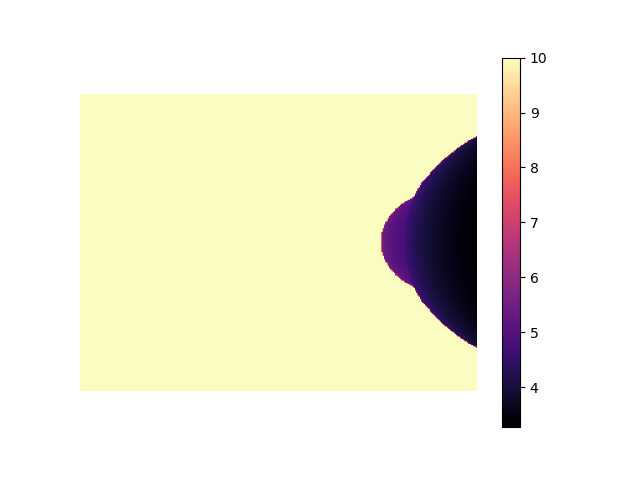
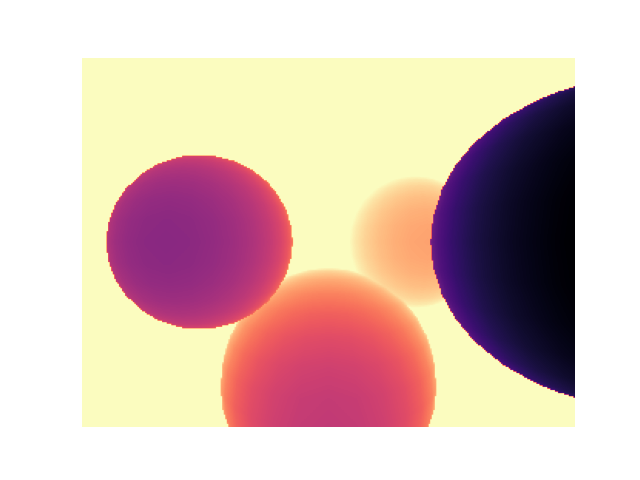
Working rot trans of cam dependent on quad pos orient

diff --git a/gym_quad/objects/depth_camera.py b/gym_quad/objects/depth_camera.py
@@ -20,6 +20,21 @@ from pytorch3d.renderer import (
     TexturesVertex,
 )
 
+
+import sys
+import os
+#Use os and sys to access the modules inside gym_quad (imports below are from gym_quad)
+# Get the directory of the current script
+script_dir = os.path.dirname(os.path.abspath(__file__))
+# Get the parent and grandparent directory of the current script
+parent_dir = os.path.dirname(script_dir)
+grand_parent_dir = os.path.dirname(parent_dir)
+# Add the parent directory to the Python path
+sys.path.append(grand_parent_dir)
+
+import gym_quad.utils.geomutils as geom
+
+
 # Helper functions to transform between ENU and pytorch3D coordinate systems
 def enu_to_pytorch3d(enu_position: torch.Tensor) -> torch.Tensor:
     '''ENU is x-east, y-north, z-up. 
@@ -121,12 +136,16 @@ class SphereScene:
 pos1 = torch.tensor([0.0, 0.0, 0.0])
 pos2 = torch.tensor([0.0, 3.0, 0.0])
 pos3 = torch.tensor([0.0, 0.0, 1.5])
+pos4 = torch.tensor([1.0, 0.0, 1.5])
+pos5 = torch.tensor([2.0, -1.0, 0])
 unit_sphere_path = "./sphere.obj"
 sphere1 = SphereMeshObstacle(device=device, path=unit_sphere_path, radius=2.0, center_position=pos1)
 sphere2 = SphereMeshObstacle(device=device, path=unit_sphere_path, radius=0.5, center_position=pos2)
 sphere3 = SphereMeshObstacle(device=device, path=unit_sphere_path, radius=1.0, center_position=pos3)
+sphere4 = SphereMeshObstacle(device=device, path=unit_sphere_path, radius=1.2, center_position=pos4)
+sphere5 = SphereMeshObstacle(device=device, path=unit_sphere_path, radius=1.4, center_position=pos5)
 
-spheres = [sphere1,sphere2,sphere3]
+spheres = [sphere1,sphere2,sphere3,sphere4,sphere5]
 spherescene = SphereScene(device=device, sphere_obstacles=spheres)
 meshes = spherescene.scene
 
@@ -144,7 +163,7 @@ R = torch.tensor([[1.0, 0.0, 0.0], [0.0, 1.0, 0.0], [0.0, 0.0, 1.0]]).unsqueeze(
 T = torch.zeros((1, 3)).to(device)
 T[0, 0] = 0.0
 T[0, 1] = 0.0
-T[0, 2] = 6.0
+T[0, 2] = 0.0
 print(f"R: {R} with shape {R.shape}")
 print(f"T: {T} with shape {T.shape}")
 
@@ -165,35 +184,62 @@ rasterizer = MeshRasterizer(
 )
 
 #Generating n_steps positions and orientations for the camera in ENU frame
-n_steps = 8
+n_steps = 24
 positions = np.zeros((n_steps, 3)) # x, y, z in meters
 orientations = np.zeros((n_steps, 3)) # roll about x, pitch about y, yaw about z (ENU) in radians
+
+referencetype = 'line' # 'circle', 'line', 
+
 for i in range (n_steps):
     param = n_steps/2
-    positions[i] = np.array([6*np.cos(i/param*np.pi), 6*np.sin(i/param*np.pi), 0]) # x, y, z in meters 
-    orientations[i] = np.array([0, 0, i/param*np.pi]) # roll, pitch, yaw in radians
+    #Circle around origin with radius 6
+    if referencetype == 'circle':
+        positions[i] = np.array([6*np.cos(i/param*np.pi), 6*np.sin(i/param*np.pi), 0]) # x, y, z in meters 
+        orientations[i] = np.array([0, 0, np.pi + i/param*np.pi]) # roll, pitch, yaw in radians
+    elif referencetype == 'line':
+        positions[i] = np.array([i, 0, 0])
+        orientations[i] = np.array([0, 0, 0])
+
+if referencetype == 'circle': #Just use stuff made above
+    meshes = spherescene.scene
+elif referencetype == 'line':
+        obs1 = SphereMeshObstacle(device=device, path=unit_sphere_path, radius=2.0, center_position=torch.tensor([4, 0, 8]))
+        obs2 = SphereMeshObstacle(device=device, path=unit_sphere_path, radius=4.0, center_position=torch.tensor([2, 4, 5]))
+        obs3 = SphereMeshObstacle(device=device, path=unit_sphere_path, radius=2.3, center_position=torch.tensor([-4, 0, 12]))
+        obs4 = SphereMeshObstacle(device=device, path=unit_sphere_path, radius=2.1, center_position=torch.tensor([3, 0, 15]))
+        obs5 = SphereMeshObstacle(device=device, path=unit_sphere_path, radius=3.2, center_position=torch.tensor([0, -4, 17]))
+        obs6 = SphereMeshObstacle(device=device, path=unit_sphere_path, radius=2.3, center_position=torch.tensor([-2.7, 0, 18]))
+        obs7 = SphereMeshObstacle(device=device, path=unit_sphere_path, radius=1.0, center_position=torch.tensor([-0, 0, 26]))
+
+        spherescene = SphereScene(device=device, sphere_obstacles=[obs1, obs2, obs3, obs4, obs5, obs6, obs7])
+        meshes = spherescene.scene
 
 actual_camera_positions_enu = np.zeros((n_steps, 3))
 for i in range(n_steps):
-    T_enu = np_to_torch(positions[i])
-    Tstep = enu_to_pytorch3d(T_enu)
-    Tstep = Tstep.unsqueeze(0)
+    position = positions[i]
+    orientation = orientations[i]
+    
+    # Convert position and orientation to torch tensors
+    at = position + geom.Rzyx(*orientation) @ np.array([1, 0, 0])  # Look at the point in front of the camera along body x-axis
+    
+    at_torch = torch.from_numpy(at).to(device)
+    position_torch = torch.from_numpy(position).to(device)
 
-    #Create R matrix from ENU euler angles in radians
-    orientation_enu = np_to_torch(orientations[i])
-    orientation_pt3d = enu_to_pytorch3d(orientation_enu) #want roll,pitch,yaw ->  pitch,yaw,roll
-    Rstep = euler_angles_to_matrix(orientation_pt3d, convention="XYZ").unsqueeze(0) #TODO can probably use one convention which allows direct passage of enu angles ZXY maybe?
-
+    at_pt3d = enu_to_pytorch3d(at).to(device).float()
+    position_pt3d = enu_to_pytorch3d(position_torch).to(device).float()
+    # orientation_torch = torch.from_numpy(orientation).to(device)
+    
+    # Calculate rotation matrix
+    Rstep = look_at_rotation(position_pt3d[None, :], device=device, at=at_pt3d[None, :])  # (1, 3, 3)
+    # Calculate translation vector
+    Tstep = -torch.bmm(Rstep.transpose(1, 2), position_pt3d[None, :, None])[:, :, 0]   # (1, 3)
+    
     camera.T = Tstep.to(device)
     camera.R = Rstep.to(device)
 
     cam_pos = camera.get_camera_center()
-    print(f"Camera position: {cam_pos} with shape {cam_pos.shape}")
     actual_camera_positions_enu[i] = torch_to_np(pytorch3d_to_enu(cam_pos.reshape(3)))
     cam_orientation = camera.get_world_to_view_transform().get_matrix()    
-
-    # print(f"\nRstep: {Rstep} with shape {Rstep.shape}")
-    # print(f"Camera orientation: {cam_orientation}\n")
 
     #Render depth map
     rasterizer.cameras = camera
@@ -207,7 +253,6 @@ for i in range(n_steps):
 
     plt.figure()
     plt.imshow(depth.cpu().numpy(), cmap="magma")
-    plt.colorbar()
     plt.axis("off")
     plt.savefig(f"./test_img/depth_maps/depth_map{i}.png")
     plt.close()

diff --git a/png2gif.py b/png2gif.py
@@ -1,0 +1,23 @@
+import imageio.v2 as imageio
+
+
+# Define filetype of source images:
+extension = '.png'
+
+# Option A: N filenames have common structure and are numbered in the correct sequence:
+#	    "image_name_0.png", "image_name_1.png", "image_name_2.png", ...
+# 	    n_imgs: known number of images
+n_imgs = 24
+path = "C:/Users/admin/Desktop/EirikJorgenMasterCode/gym_quad/gym_quad/objects/test_img/depth_maps/"
+filenames = [f"{path}depth_map{i}{extension}" for i in range(n_imgs)]
+
+# Option B: unknown filenames, but they are still ordered in ascending order by name:
+# import glob
+
+# filenames = sorted(glob.glob('*{extension}'))
+
+# Read, compose and write images to .gif:
+with imageio.get_writer('my_image_animation.gif', mode='I', duration=0.01, loop=0) as writer:
+    for filename in filenames:
+        image = imageio.imread(filename)
+        writer.append_data(image)
